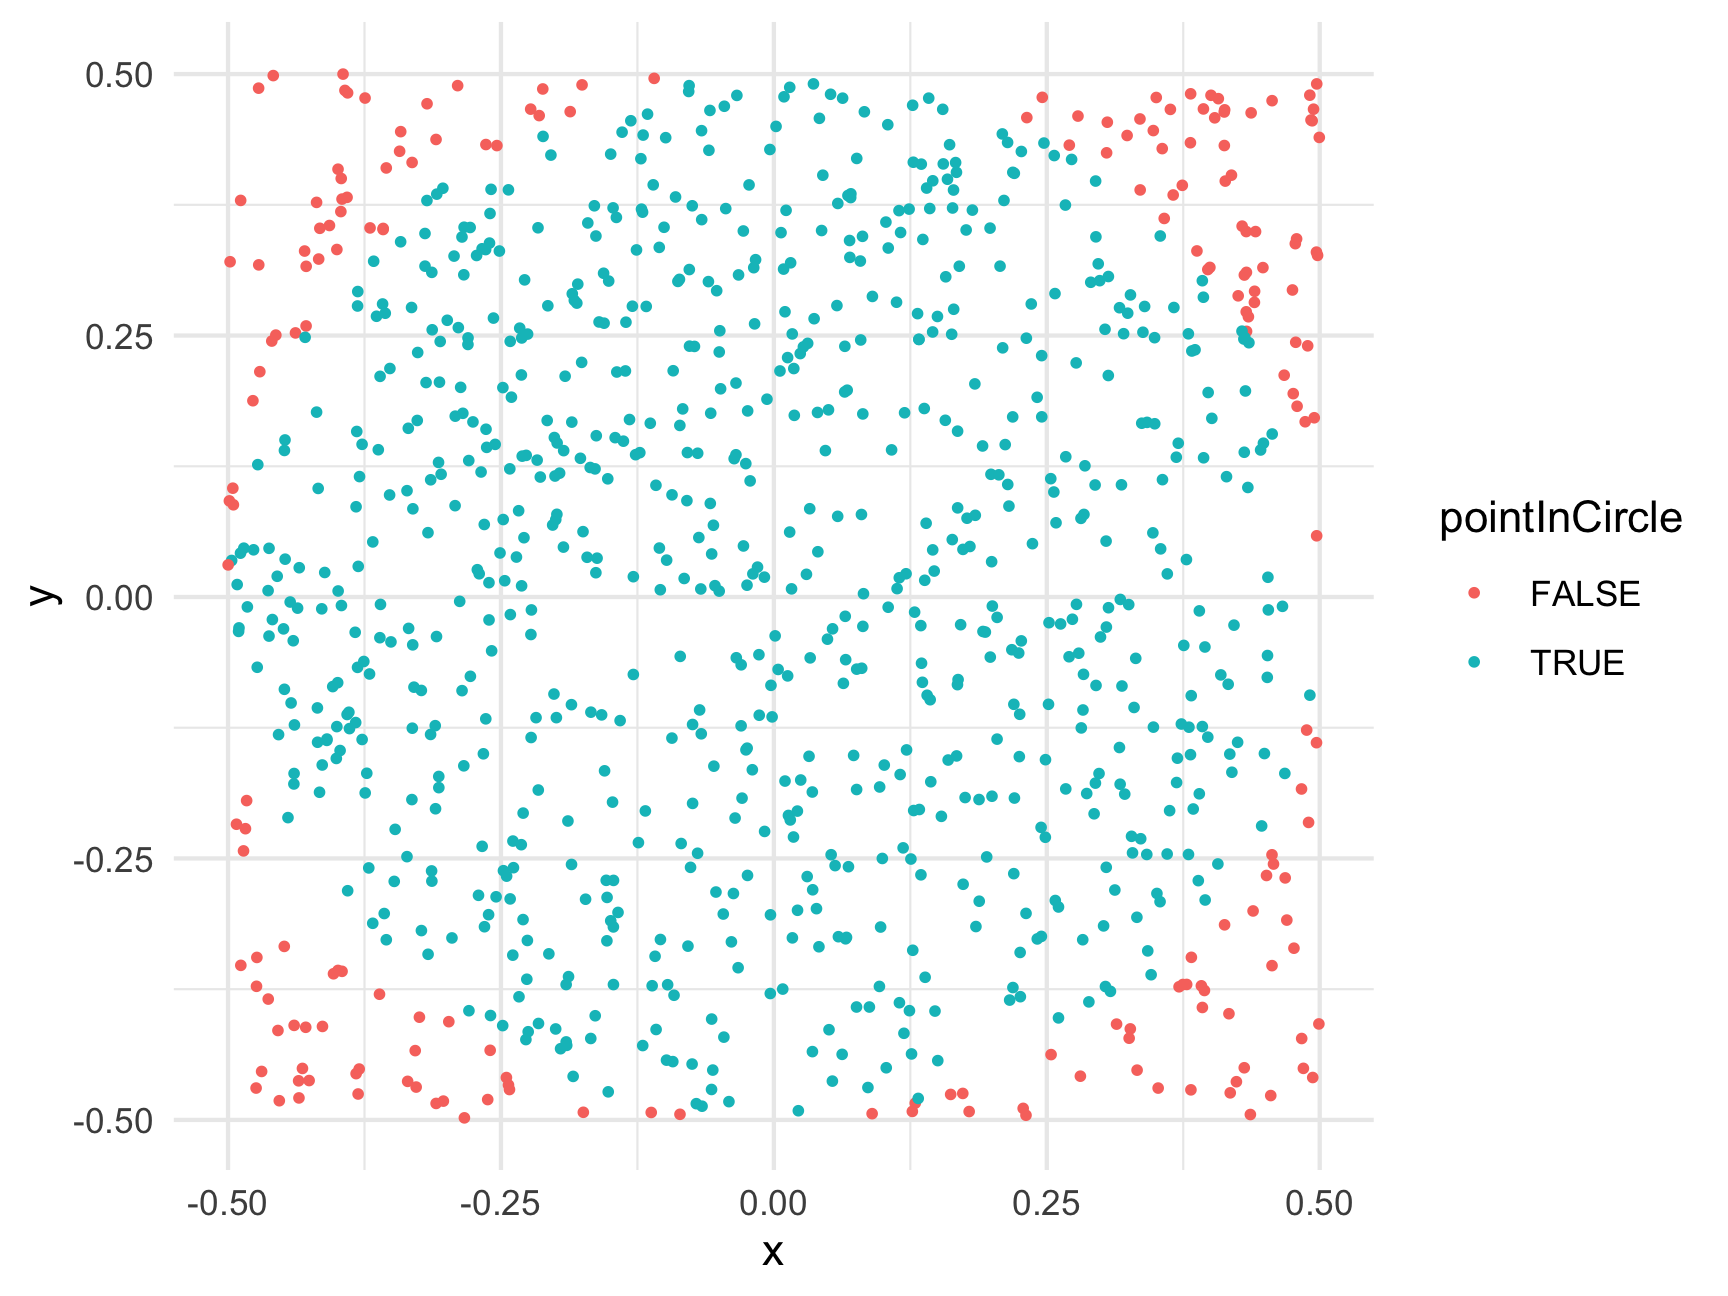
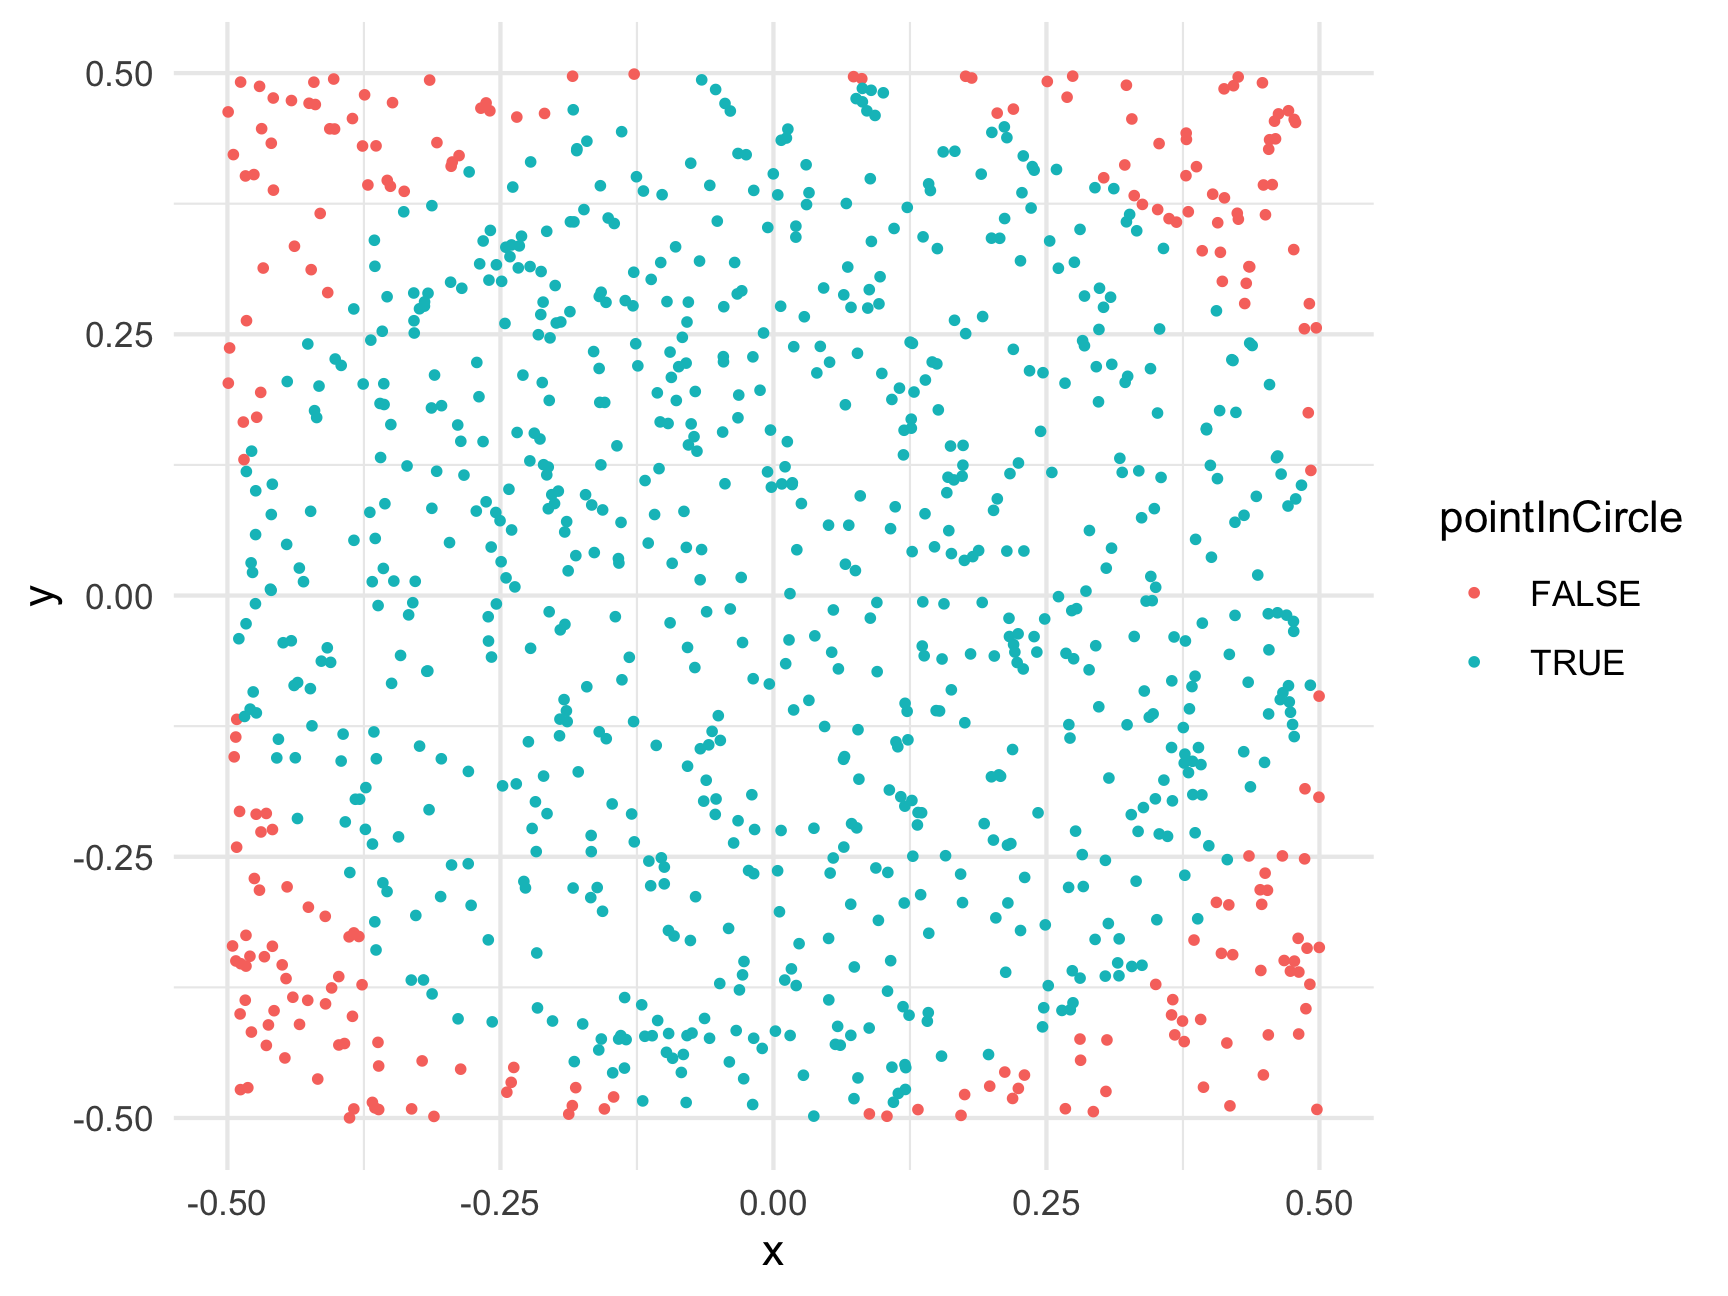
Deploying to gh-pages from  @ 7973acc90d33b5dfc8ad97e4f7fc55b7d94cba4b 🚀

diff --git a/r13-monte-carlo-methods.html b/r13-monte-carlo-methods.html
@@ -812,11 +812,11 @@ ratio &lt;- sum(belowCurve) / numTrials
 totalArea &lt;- (7 - 3) * 7^2 # Rectangle length x height = 196
 areaUnderCurve &lt;- ratio * totalArea
 areaUnderCurve</code></pre>
-<pre><code>#&gt; [1] 105.6793</code></pre>
-<p>So, using Monte Carlo simulation with 100,000 points, we estimate that the area under the curve is 105.67928. How’d we do? Well, if you’re familiar with calculus, the integral of <span class="math inline">\(f(x) = x^2\)</span> has a closed-form solution (<span class="math inline">\(\frac{x^3}{3} + C\)</span>), so we can check our estimate against the pure-math solution:</p>
+<pre><code>#&gt; [1] 105.3226</code></pre>
+<p>So, using Monte Carlo simulation with 100,000 points, we estimate that the area under the curve is 105.32256. How’d we do? Well, if you’re familiar with calculus, the integral of <span class="math inline">\(f(x) = x^2\)</span> has a closed-form solution (<span class="math inline">\(\frac{x^3}{3} + C\)</span>), so we can check our estimate against the pure-math solution:</p>
 <p><span class="math display">\[\int_{3}^{7} x^2 \mathrm{dx} = \left ( \frac{x^3}{3} \right ) \Big|_3^7 = \frac{7^3}{3} - \frac{3^3}{3} = 105.33\bar{3}\]</span></p>
-<p>So our estimate error is: <code>105.333 -</code> <code>105.67928</code> <code>=</code> <code>-0.3459467</code>.</p>
-<p>That’s an error of just 0.33 % - not bad!</p>
+<p>So our estimate error is: <code>105.333 -</code> <code>105.32256</code> <code>=</code> <code>0.0107733</code>.</p>
+<p>That’s an error of just 0.01 % - not bad!</p>
 <hr />
 </div>
 <div id="monte-carlo-pi" class="section level1">
@@ -846,13 +846,13 @@ points &lt;- data.frame(
     x = runif(numTrials, -0.5, 0.5),
     y = runif(numTrials, -0.5, 0.5))
 head(points)</code></pre>
-<pre><code>#&gt;            x           y
-#&gt; 1 -0.0744502 -0.19735859
-#&gt; 2  0.3471647  0.06133645
-#&gt; 3 -0.3102053 -0.12303960
-#&gt; 4  0.1255265 -0.25055557
-#&gt; 5 -0.3094637  0.43748423
-#&gt; 6  0.4493453 -0.14969940</code></pre>
+<pre><code>#&gt;             x           y
+#&gt; 1  0.11151029  0.08494496
+#&gt; 2  0.13569158 -0.20790947
+#&gt; 3 -0.14633718 -0.47988745
+#&gt; 4 -0.07535251  0.16426522
+#&gt; 5  0.15211337 -0.11048070
+#&gt; 6 -0.38817559 -0.49987910</code></pre>
 <p>For this example, we’re putting the points in a data frame to make it easier to work with. Now that we have random x and y points, let’s compute the radius to each point (the distance from <code>(x, y) = (0, 0)</code>) so we can determine which points fall inside the circle (which has a radius of 0.5):</p>
 <pre class="r"><code>library(dplyr)
 points &lt;- points %&gt;%
@@ -869,9 +869,9 @@ ggplot(points) +
 <pre class="r"><code>ratio &lt;- sum(points$pointInCircle) / nrow(points)
 piApprox &lt;- 4 * ratio
 piApprox</code></pre>
-<pre><code>#&gt; [1] 3.196</code></pre>
-<p>So our estimate error is: <code>3.1415 -</code> <code>3.196</code> <code>=</code> <code>0.0544073</code>.</p>
-<p>That’s an error of just 1.73 % - not bad for only 1,000 points!</p>
+<pre><code>#&gt; [1] 3.088</code></pre>
+<p>So our estimate error is: <code>3.1415 -</code> <code>3.088</code> <code>=</code> <code>-0.0535927</code>.</p>
+<p>That’s an error of just 1.71 % - not bad for only 1,000 points!</p>
 <p>To get an even better estimate of <span class="math inline">\(\pi\)</span>, we can increase N. Let’s see what we get with 100,000 trials:</p>
 <pre class="r"><code>numTrials &lt;- 100000
 points &lt;- data.frame(
@@ -883,13 +883,13 @@ points &lt;- data.frame(
 ratio &lt;- sum(points$pointInCircle) / nrow(points)
 piApprox &lt;- 4 * ratio
 piApprox</code></pre>
-<pre><code>#&gt; [1] 3.12772</code></pre>
+<pre><code>#&gt; [1] 3.138</code></pre>
 <pre class="r"><code># Compute error:
 error &lt;- piApprox - pi
 percentError &lt;- round(100*abs(error / pi), 2)
 percentError</code></pre>
-<pre><code>#&gt; [1] 0.44</code></pre>
-<p>By increasing the number of trials from 1,000 to 100,000, we improved our estimate error from 1.73 % to 0.44 %!</p>
+<pre><code>#&gt; [1] 0.11</code></pre>
+<p>By increasing the number of trials from 1,000 to 100,000, we improved our estimate error from 1.71 % to 0.11 %!</p>
 <hr />
 <p><strong>Page sources</strong>:</p>
 <p>Some content on this page has been modified from other courses, including:</p>

diff --git a/r2-functions-packages.html b/r2-functions-packages.html
@@ -770,7 +770,7 @@ div.tocify {
 <p>Here the letters <code>sqrt</code> are short for “square root,” and the value inside the <code>()</code> is the “argument” to the function. In the example above, the value <code>225</code> is the “argument”.</p>
 <p>Keep in mind that not all functions have (or require) arguments:</p>
 <pre class="r"><code>date() # Returns the current date and time</code></pre>
-<pre><code>#&gt; [1] &quot;Wed Apr 27 21:35:19 2022&quot;</code></pre>
+<pre><code>#&gt; [1] &quot;Thu May  5 01:46:10 2022&quot;</code></pre>
 <p>(the date above is the date this page was last built)</p>
 <div id="multiple-arguments" class="section level2">
 <h2>Multiple arguments</h2>
@@ -988,9 +988,9 @@ library(packagename)   # This also works</code></pre>
 <p>Now that you have the package installed on your computer, try loading it using <code>library(wikifacts)</code>, then trying using some of it’s functions:</p>
 <pre class="r"><code>library(wikifacts) # Load the library</code></pre>
 <pre class="r"><code>wiki_randomfact()</code></pre>
-<pre><code>#&gt; [1] &quot;Did you know that sociologist, feminist, and campaigner for lesbian and gay rights Mary Susan McIntosh was deported from the U.S. in 1960 for speaking out against the House Un-American Activities Committee? (Courtesy of Wikipedia)&quot;</code></pre>
+<pre><code>#&gt; [1] &quot;Here&#39;s some news from 30 September 2017. A magnitude 7.1 earthquake strikes central Mexico, killing more than three hundred people. (Courtesy of Wikipedia)&quot;</code></pre>
 <pre class="r"><code>wiki_didyouknow()</code></pre>
-<pre><code>#&gt; [1] &quot;Did you know that Philip Woodroffe redressed all chirurgic woes? (Courtesy of Wikipedia)&quot;</code></pre>
+<pre><code>#&gt; [1] &quot;Did you know that after Petronius Maximus angered their king, the Vandals sacked Rome so thoroughly that their name is still a synonym for wanton destruction? (Courtesy of Wikipedia)&quot;</code></pre>
 <p>In case you’re wondering, the only thing this package does is generate messages containing random facts from <a href="https://www.wikipedia.org/">Wikipedia</a>.</p>
 </div>
 <div id="using-only-some-package-functions" class="section level2">
@@ -1001,7 +1001,7 @@ library(packagename)   # This also works</code></pre>
 </blockquote>
 <p>Here I use the name of the <em>package</em> followed by <code>::</code> to tell R that I’m looking for a function that is in that package. For example, if I didn’t want to load the whole <strong>wikifacts</strong> library but still wanted to use the <code>wiki_randomfact()</code> function, I could do this:</p>
 <pre class="r"><code>wikifacts::wiki_randomfact()</code></pre>
-<pre><code>#&gt; [1] &quot;Did you know that shortly after the arrest of the leaders of the Indonesian National Party, Sartono disbanded it and founded the Indonesia Party? (Courtesy of Wikipedia)&quot;</code></pre>
+<pre><code>#&gt; [1] &quot;Did you know that on March 21 in 1952 – The Moondog Coronation Ball (poster pictured), generally considered to be the first major rock and roll concert, took place at the Cleveland Arena in Cleveland, Ohio. (Courtesy of Wikipedia)&quot;</code></pre>
 <p>Where this is particularly handy is when two packages have a function with the same name. If you load both library, R might not know which function to use. In those cases, it’s best to also provide the <strong>package</strong> name. For example, let’s say there was a package called <strong>apples</strong> and another called <strong>bananas</strong>, and each had a function named <code>fruitName()</code>. If I wanted to use each of them in my code, I would need to specify the package names like this:</p>
 <pre class="r"><code>apples::fruitName()
 bananas::fruitName()</code></pre>

diff --git a/schedule.html b/schedule.html
@@ -977,20 +977,20 @@ Apr 21
 </td>
 </tr>
 <tr>
-<td style="text-align:center;">
+<td style="text-align:center;background-color: #e1e1e1 !important;">
 16
 </td>
-<td style="text-align:center;width: 2em; ">
+<td style="text-align:center;width: 2em; background-color: #e1e1e1 !important;">
 Apr 28
 </td>
-<td style="text-align:left;">
+<td style="text-align:left;background-color: #e1e1e1 !important;">
 </td>
-<td style="text-align:left;width: 20em; ">
+<td style="text-align:left;width: 20em; background-color: #e1e1e1 !important;">
 <strong>Reading Day</strong><br>
 </td>
-<td style="text-align:left;width: 9em; ">
+<td style="text-align:left;width: 9em; background-color: #e1e1e1 !important;">
 </td>
-<td style="text-align:left;">
+<td style="text-align:left;background-color: #e1e1e1 !important;">
 </td>
 </tr>
 <tr>
